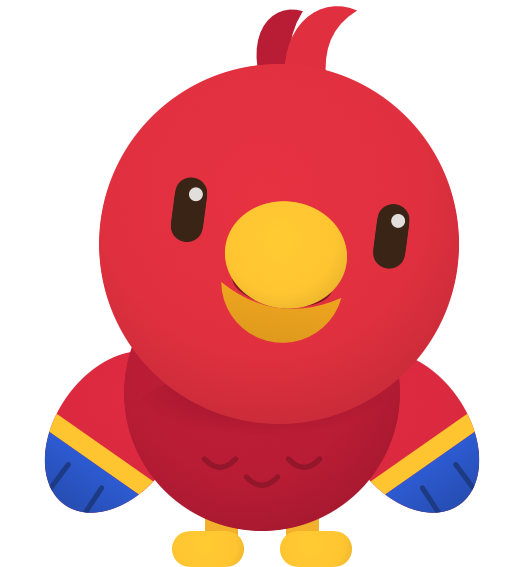
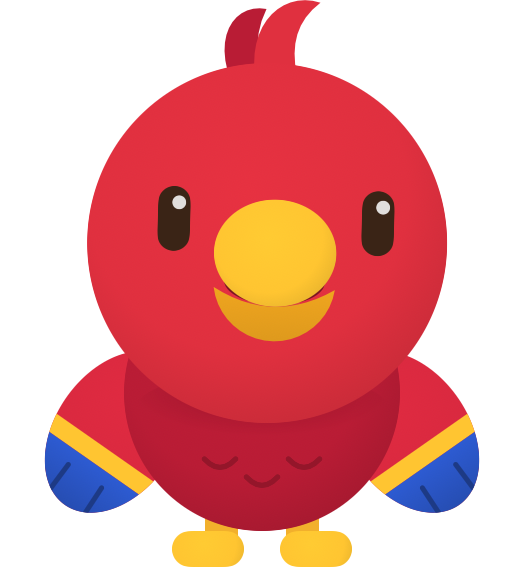
Practice rings removed, parrot head straight

diff --git a/index.html b/index.html
@@ -9,7 +9,7 @@
 <link rel="icon" href="/assets/icon.png?v=2">
 <link rel="apple-touch-icon" href="/assets/icon.png?v=2">
 <link rel="preload" href="/assets/DMSans.ttf" as="font" type="font/ttf" crossorigin>
-<link rel="stylesheet" href="/assets/style.css?v=6">
+<link rel="stylesheet" href="/assets/style.css?v=7">
 <meta property="og:type" content="website">
 <meta property="og:site_name" content="Versura">
 <meta property="og:title" content="Versura · Learn Scripture by heart">
@@ -62,9 +62,9 @@
       </div>
       <div class="bird">
         <div class="stack">
-          <img class="rest" src="/assets/parrot-rest.png" width="525" height="567" alt="Versura's parrot">
-          <img class="wv1" src="/assets/parrot-wave.png" width="525" height="567" alt="">
-          <img class="wv2" src="/assets/parrot-wave2.png" width="525" height="567" alt="">
+          <img class="rest" src="/assets/parrot-rest.png?v=2" width="525" height="567" alt="Versura's parrot">
+          <img class="wv1" src="/assets/parrot-wave.png?v=2" width="525" height="567" alt="">
+          <img class="wv2" src="/assets/parrot-wave2.png?v=2" width="525" height="567" alt="">
           <img class="cheer" src="/assets/parrot-cheer.png" width="525" height="567" alt="">
           <svg class="b" style="--dx: -90px; --dy: -80px" viewBox="0 0 24 24" aria-hidden="true"><path d="M12 0C13 7 17 11 24 12C17 13 13 17 12 24C11 17 7 13 0 12C7 11 11 7 12 0Z"></path></svg>
           <svg class="b" style="--dx: 90px; --dy: -90px; animation-delay: .06s" viewBox="0 0 24 24" aria-hidden="true"><path d="M12 0C13 7 17 11 24 12C17 13 13 17 12 24C11 17 7 13 0 12C7 11 11 7 12 0Z"></path></svg>
@@ -78,7 +78,7 @@
 
     <section class="ex" id="practice">
       <svg class="exv" viewBox="0 0 100 100" aria-hidden="true"><path d="M10 12 L50 92 L90 12" stroke="#2A55C4" stroke-width="16" stroke-linecap="round" stroke-linejoin="round" fill="none"></path></svg>
-      <div class="ring" aria-hidden="true"></div><div class="ring r2" aria-hidden="true"></div>
+      
       <div class="label">Practice</div>
       <h2>Little by little, until it's yours.</h2>
       <p>Each verse gets a little harder every time, so you're always just able to remember it.</p>

diff --git a/assets/style.css b/assets/style.css
@@ -152,8 +152,6 @@ a { color: inherit; text-decoration: none; } a:hover { color: #2A55C4; }
 /* exercises */
 .vd .ex { position: relative; isolation: isolate; margin-top: var(--sec); border-radius: 40px; background: radial-gradient(560px 400px at 50% 64%, rgba(42,85,196,.20), transparent 70%), var(--wash); padding: 90px 24px 70px; text-align: center; overflow: hidden; }
 .vd .ex .exv { position: absolute; left: 50%; top: 40px; width: 900px; margin-left: -450px; opacity: .09; z-index: -1; }
-.vd .ex .ring { position: absolute; left: 50%; top: 560px; width: 760px; height: 760px; margin: -380px 0 0 -380px; border-radius: 50%; border: 1.5px solid rgba(42,85,196,.14); z-index: -1; }
-.vd .ex .ring.r2 { width: 1040px; height: 1040px; margin: -520px 0 0 -520px; border-color: rgba(42,85,196,.08); }
 .vd .ex h2 { font-size: clamp(40px, 4.6vw, 66px); letter-spacing: -.045em; line-height: 1; margin: 14px auto 0; max-width: 820px; text-wrap: balance; }
 .vd .ex > p { font-size: 19px; line-height: 1.55; color: var(--ink2); max-width: 520px; margin: 18px auto 0; }
 .vd .fan { position: relative; height: 600px; margin-top: 50px; display: flex; justify-content: center; align-items: flex-start; }
@@ -241,8 +239,6 @@ a { color: inherit; text-decoration: none; } a:hover { color: #2A55C4; }
   .vd .deck { height: 360px; }
   .vd .ex { padding: 64px 16px 48px; }
   .vd .ex .exv { width: 520px; margin-left: -260px; }
-  .vd .ex .ring { top: 420px; width: 440px; height: 440px; margin: -220px 0 0 -220px; }
-  .vd .ex .ring.r2 { width: 620px; height: 620px; margin: -310px 0 0 -310px; }
   .vd .fan { height: 320px; margin-top: 36px; }
   .vd .fan .phone { width: 128px; border-radius: 24px; padding: 5px; }
   .vd .fan .phone img { border-radius: 20px; }

diff --git a/support/index.html b/support/index.html
@@ -8,7 +8,7 @@
 <meta name="description" content="Get help with Versura, the Scripture memory app.">
 <link rel="icon" href="/assets/icon.png?v=2">
 <link rel="apple-touch-icon" href="/assets/icon.png?v=2">
-<link rel="stylesheet" href="/assets/style.css?v=6">
+<link rel="stylesheet" href="/assets/style.css?v=7">
 </head>
 <body>
 <div class="vd">

diff --git a/privacy/index.html b/privacy/index.html
@@ -8,7 +8,7 @@
 <meta name="description" content="How Versura handles your information.">
 <link rel="icon" href="/assets/icon.png?v=2">
 <link rel="apple-touch-icon" href="/assets/icon.png?v=2">
-<link rel="stylesheet" href="/assets/style.css?v=6">
+<link rel="stylesheet" href="/assets/style.css?v=7">
 </head>
 <body>
 <div class="vd">
